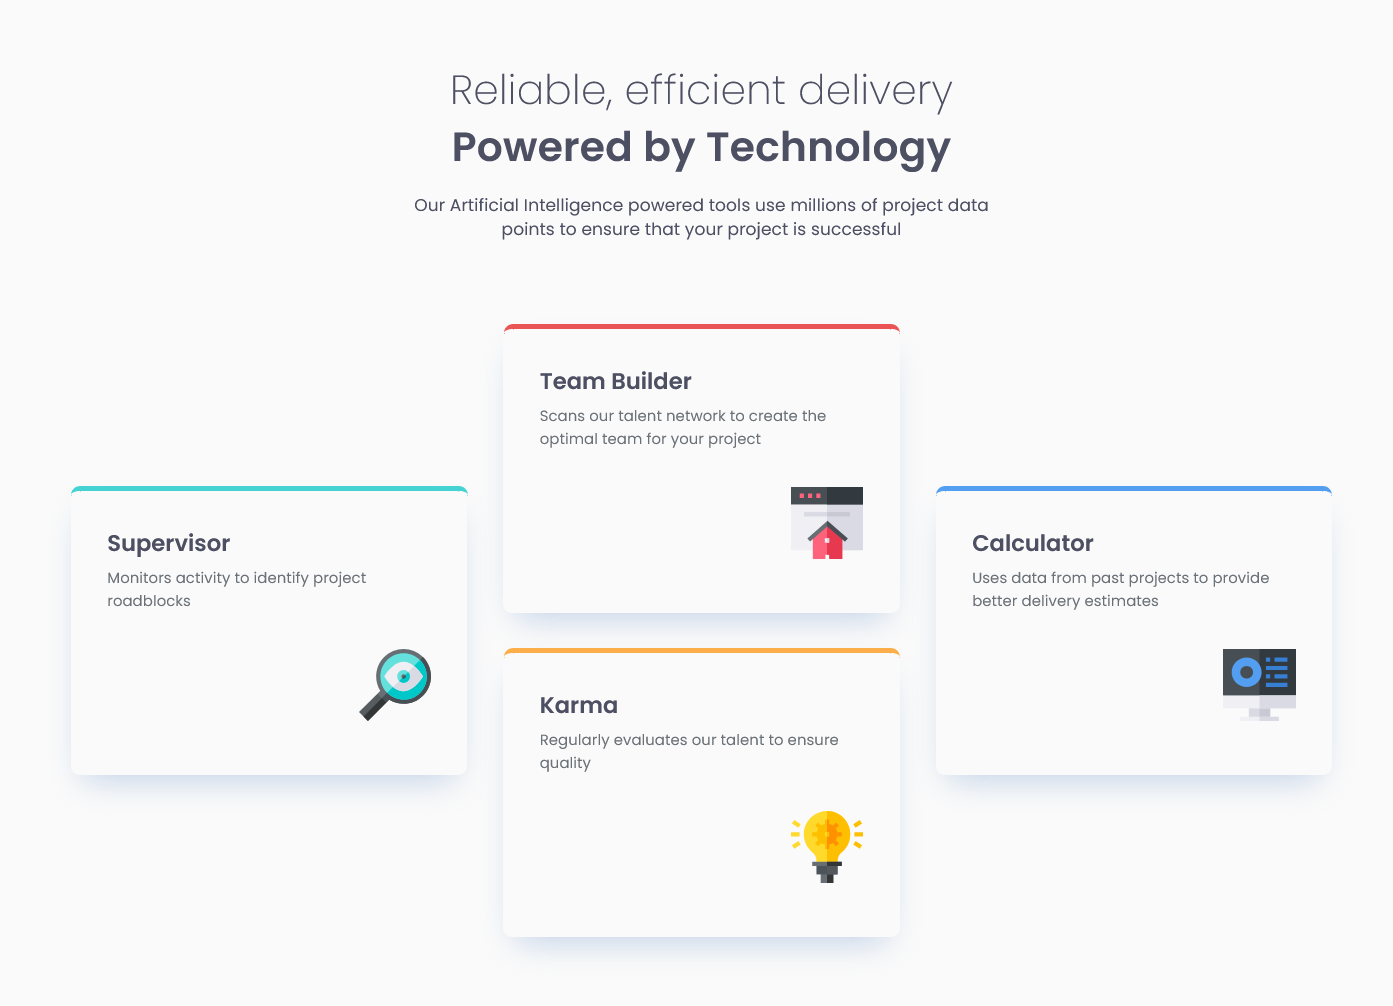
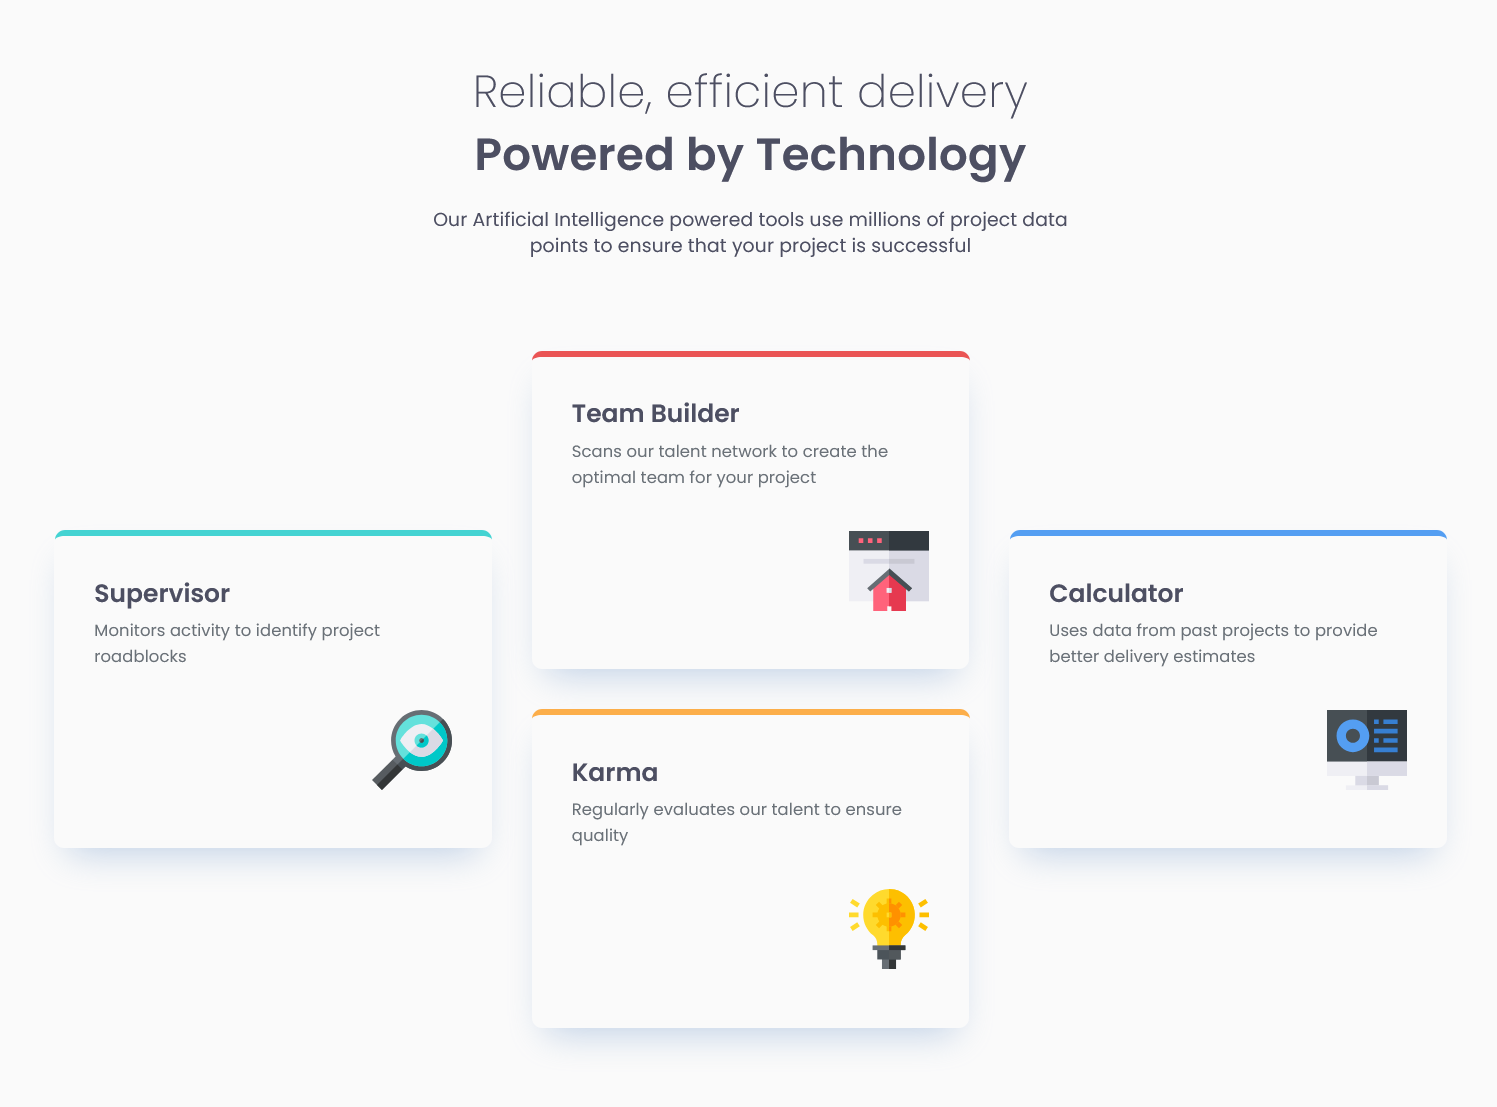
refactor: semantic HTML, CSS styles

diff --git a/css/style.css b/css/style.css
@@ -7,6 +7,7 @@
   --color-cyan: #44D3D2;
   --color-blue: #549EF2;
   --color-orange: #FCAE4A;
+  --card-shadow: 0px 15px 30px -11px rgba(130.85, 166.19, 210.28, 0.50);
 }
 
 
@@ -87,7 +88,7 @@ body {
 }
 
 .features__intro-primary {
-  font-family: 'Poppins Extra Light';
+  font-family: 'Poppins Extra Light', sans-serif;
   font-size: 1.5rem;
   line-height: 1.4;
   letter-spacing: 0.25px;
@@ -101,7 +102,7 @@ body {
 }
 
 .features__highlight {
-  font-family: 'Poppins Semi Bold';
+  font-family: 'Poppins Semi Bold', sans-serif;
 }
 
 .features__list {
@@ -116,12 +117,13 @@ body {
   display: flex;
   flex-direction: column;
   max-width: 314px;
+  width: 100%;
   padding: 2rem;
   padding-bottom: 2.93rem;
   border-radius: 8px;
   border-top-width: 5px;
   border-top-style: solid;
-  box-shadow: 0px 15px 30px -11px rgba(130.85, 166.19, 210.28, 0.50);
+  box-shadow: var(--card-shadow);
 
   &:nth-child(1) {
     border-top-color: var(--color-cyan);
@@ -141,7 +143,7 @@ body {
 }
 
 .features__title {
-  font-family: 'Poppins Semi Bold';
+  font-family: 'Poppins Semi Bold', sans-serif;
   font-size: 1.25rem;
   line-height: 1.35;
   color: var(--color-grey-500);

diff --git a/index.html b/index.html
@@ -18,14 +18,14 @@
 
       <h2 class="visually-hidden">Feature options with concise descriptions</h2>
 
-      <div class="features__intro">
+      <header class="features__intro">
         <p class="features__intro-primary">Reliable, efficient delivery <span class="features__highlight">Powered by
             Technology</span></p>
         <p class="features__intro-secondary">Our Artificial Intelligence powered tools use millions of project data
           points to ensure that your project is
           successful
         </p>
-      </div>
+      </header>
 
       <ul class="features__list">
         <li class="features__item">
